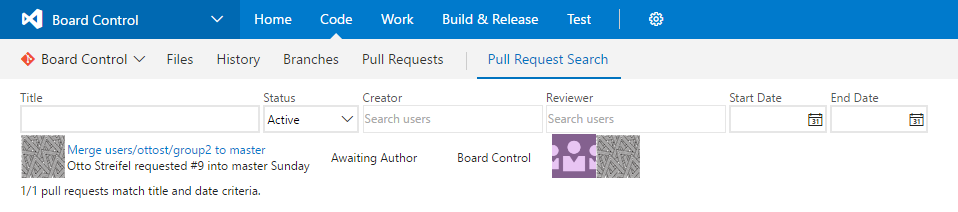
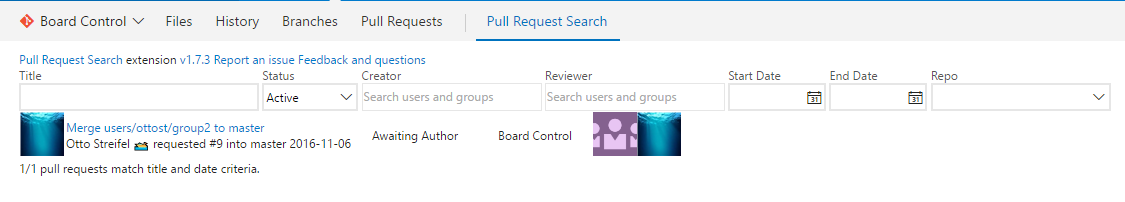
v1.7.4 adds changelog

diff --git a/scripts/PullRequestsView.tsx b/scripts/PullRequestsView.tsx
@@ -41,7 +41,7 @@ class RequestRow extends React.Component<{ pullRequest: GitPullRequest }, void> 
         );
         return (
             <tr className="pr-row">
-                <td><img src={pr.createdBy.imageUrl} /></td>
+                <td><img src={pr.createdBy.imageUrl} title={pr.createdBy.displayName}/></td>
                 <td>
                     <a href={url} target={'_blank'}>{pr.title}</a>
                     <div>{`${pr.createdBy.displayName} requested #${pr.pullRequestId} into ${targetName} ${createTime}`}</div>

diff --git a/details.md b/details.md
@@ -1,4 +1,92 @@
-Allows pull requests to be filtered by creator, reviewer, title, start date and end date.
+Allows pull requests to be filtered by creator, reviewer, title, start date, end date, and repository.
 ![Image of inputs](img/inputs.png)
 
 Searches are scoped to all repositories of the current project.
+
+# Change Log
+
+v1.7.4
+
+Adds change log
+
+Updates inputs picture in details page.
+
+Adds creator image tooltip
+
+v1.7.1
+
+Adds Repository search clause
+
+v1.6.16
+
+Updates email address.
+
+Remove default to current team.
+
+v1.6.15
+
+Fixes bug in identity picker configuration
+
+v1.6.1
+
+Adds defaults to current team
+
+v1.5.9
+
+Updates email.
+
+v1.5.4
+
+Makes all profile pictures the same size
+
+v1.5.1
+
+Header info text. Adds links to the github repo, store page, and support email at top of search hub.
+
+v1.4.6
+
+Updates inputs image on details page
+
+v1.4.5
+
+Updates details page
+
+v1.4.1
+
+Allows 'Find more' behavior. At bottom of search results user may now click to include the next 100 match pull requests in the search results.
+
+v1.3.10
+
+Adds text at bottom showing how many pull requests match title and date filter criteria of those that match the search criteria.
+
+v1.3.6
+
+Adds filtering by start and end date
+
+v1.3.1
+
+Adds filtering by title
+
+v1.2.1
+
+Live queries, no more search button. Search runs on criteria change.
+
+v1.1.8
+
+ie support
+
+v1.1.5
+
+Adds pr status, results scrollbar, profile image tooltips
+
+v1.1.3
+
+Updates image in details page
+
+v1.1.1
+
+Adds identity pickers for search
+
+v1.0.1
+
+Initial release
